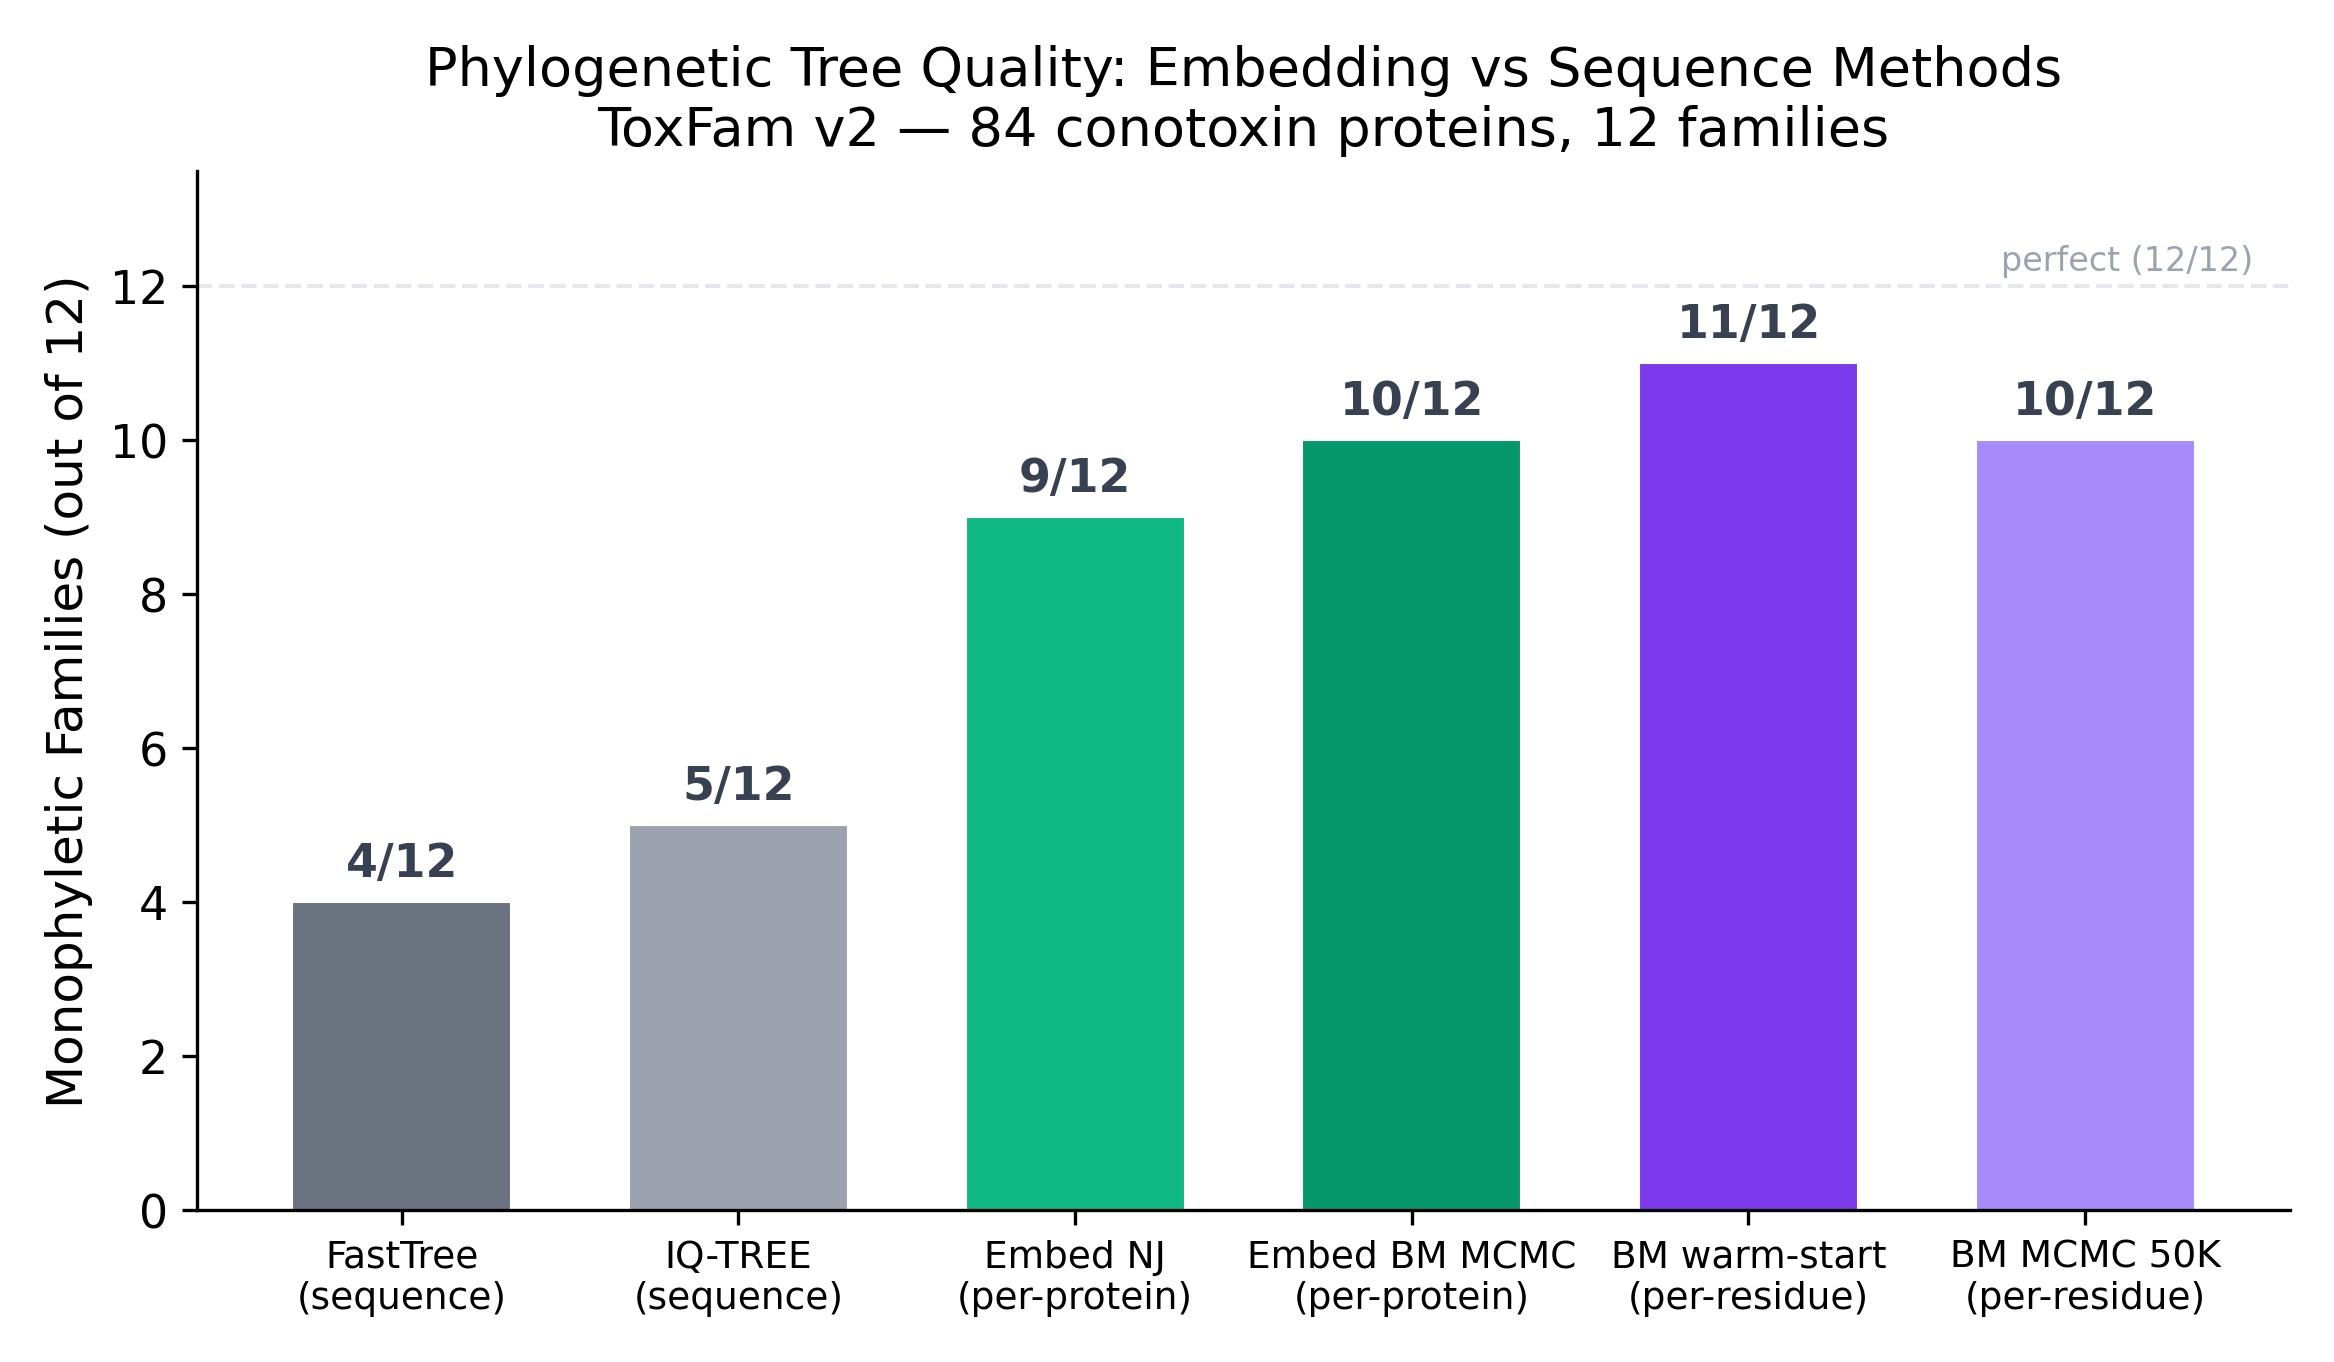
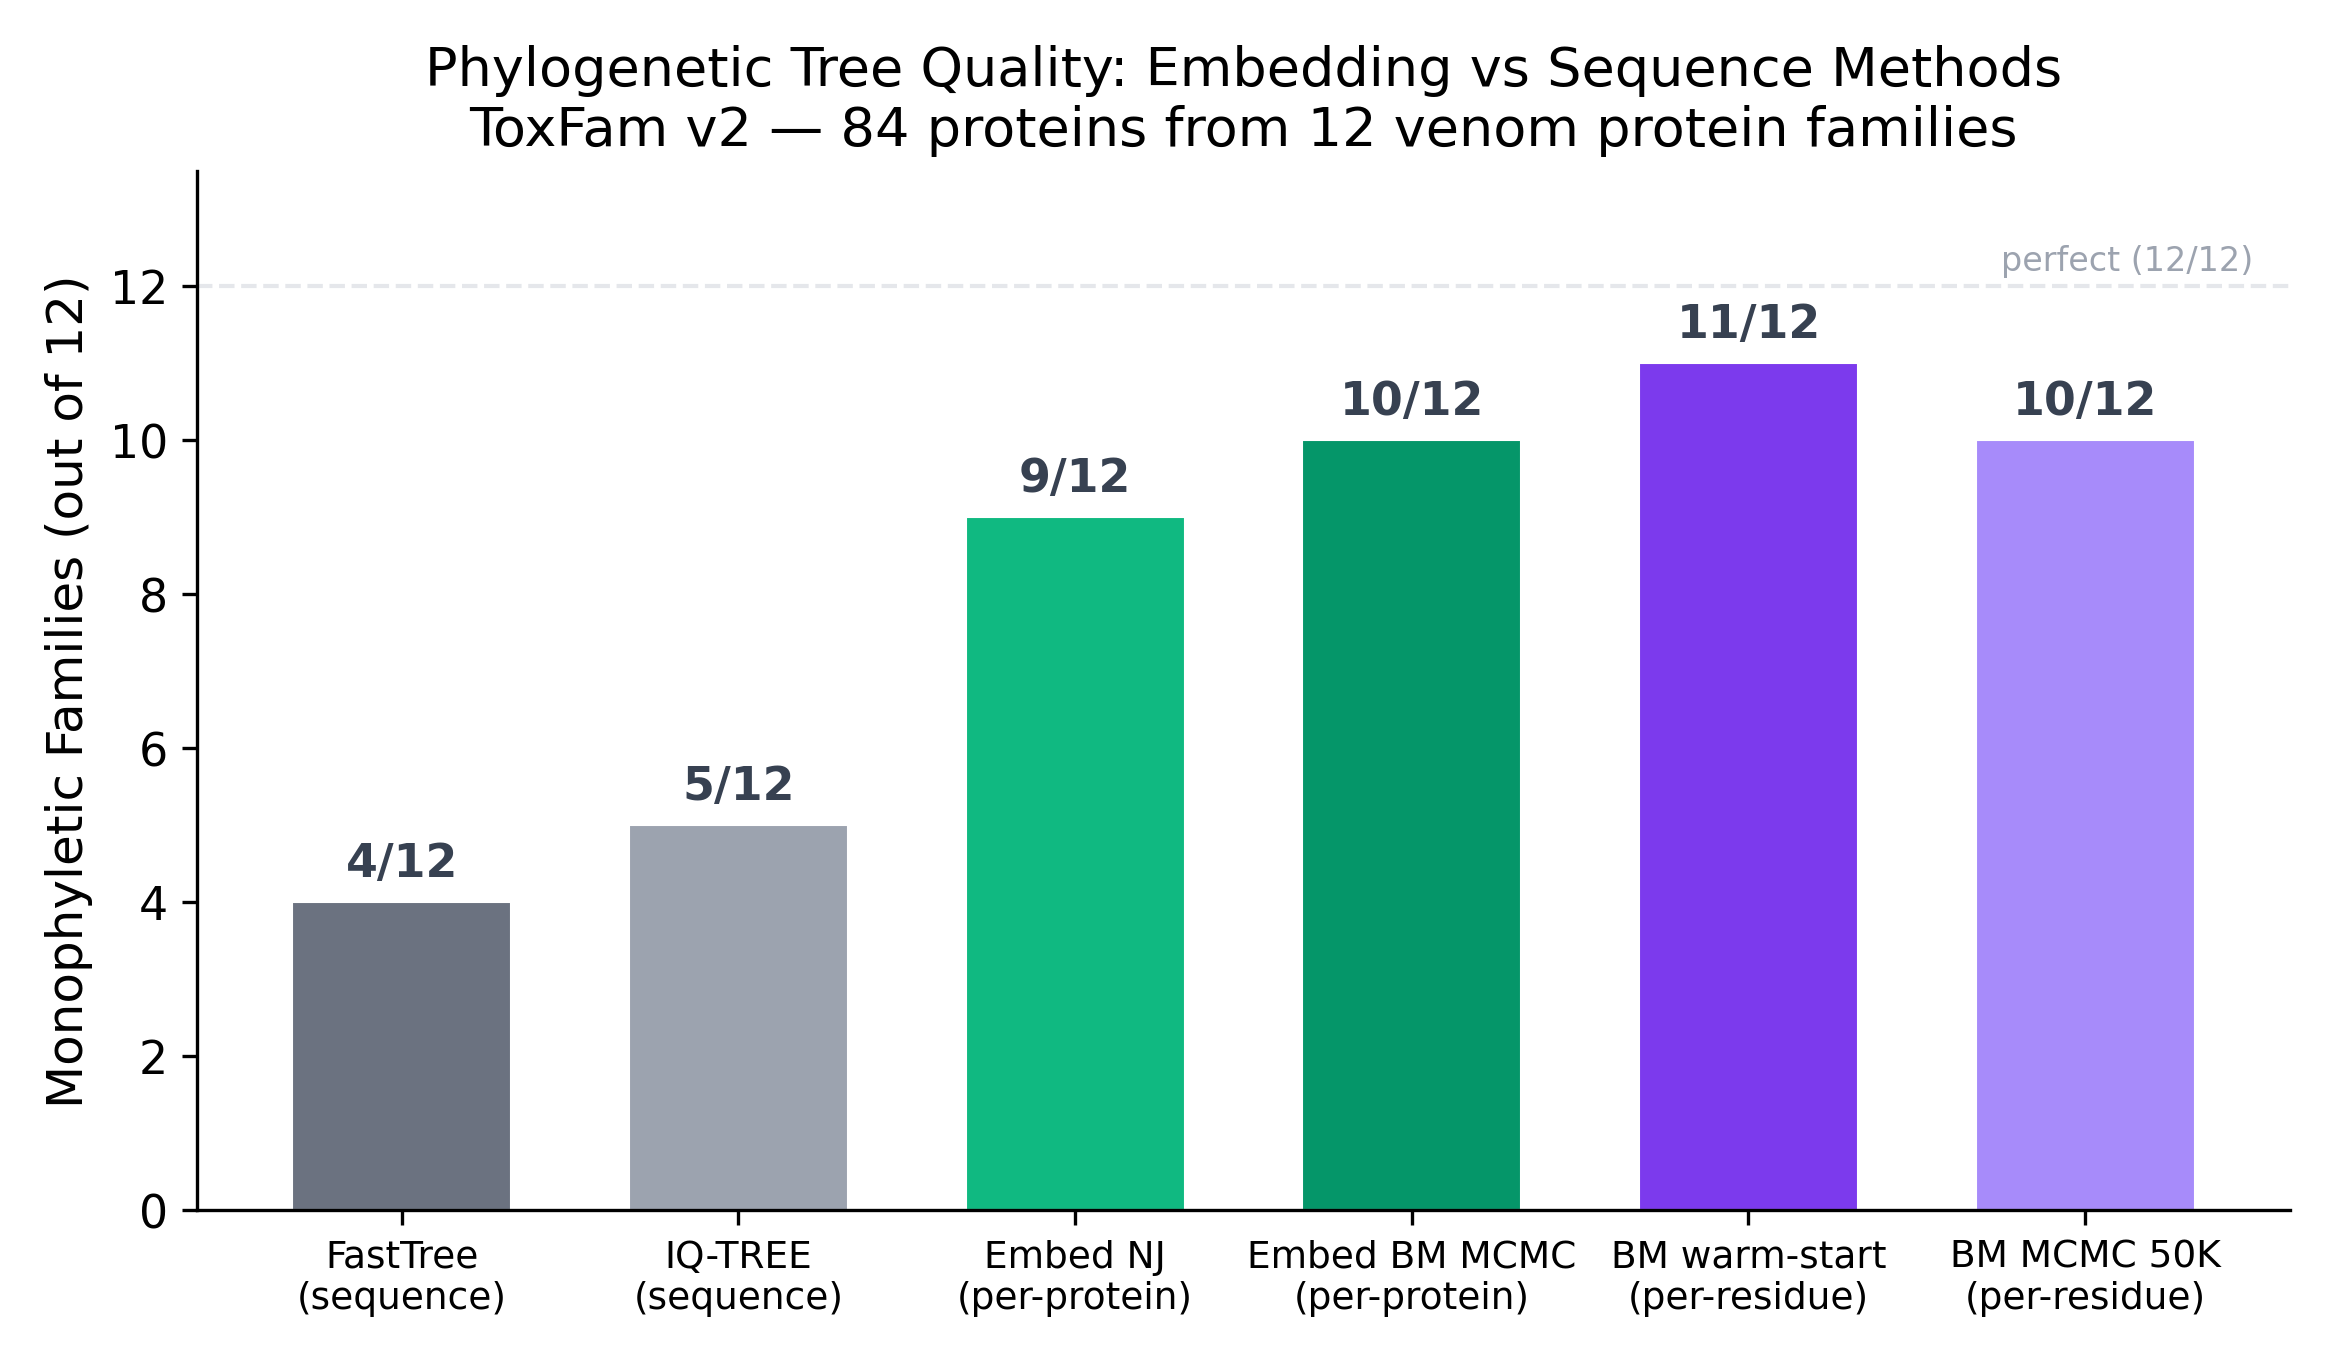
fix: thorough fact-check — correct 8 inaccuracies in README
Issues found and fixed by line-by-line verification against benchmark JSONs:
- "97% per-residue retention" → 96% (actual: 0.807/0.840 = 96.1%)
- "37 experiments" → 31 experiments (exps 05-10 don't exist)
- V2 full compression 13x → 14x (700/52 = 13.5, rounds to 14)
- V1 row labeled "ABTT3+RP512" with Ret@1=0.780 — dropped ABTT3
  (0.780 is without ABTT3; with ABTT3 it's 0.786)
- Key Results V1 row: same fix, use plain rp512+dct K4 (0.780/0.815)
- Phase 9 "40% less storage (26 vs 48 KB)" → 50% (26 vs 52 KB)
- Phylo subtitle: "conotoxin" → "venom protein families" (Snaclec,
  CRISP, Disintegrin, Actinoporin, Insulin, etc.)
- Journey heading: 37 → 31 experiments

Changed region(s): [[0.2159, 0.0617, 0.8638, 0.1233]]

diff --git a/experiments/make_publication_figures.py b/experiments/make_publication_figures.py
@@ -845,7 +845,7 @@ def fig_phylo_monophyly(data):
 
     ax.set_ylabel("Monophyletic Families (out of 12)")
     ax.set_title("Phylogenetic Tree Quality: Embedding vs Sequence Methods\n"
-                 "ToxFam v2 — 84 conotoxin proteins, 12 families")
+                 "ToxFam v2 — 84 proteins from 12 venom protein families")
     ax.set_xticks(x)
     ax.set_xticklabels(labels, fontsize=9)
     ax.set_ylim(0, 13.5)

diff --git a/README.md b/README.md
@@ -1,6 +1,6 @@
 # One Embedding: Universal Compression for PLM Protein Embeddings
 
-A universal codec that compresses any protein language model's per-residue output into a compact, fixed-schema representation -- the **One Embedding**. The recommended V2 codec (`balanced` mode) achieves **26 KB/protein** (27x compression) while preserving 99.7% retrieval quality and 97% per-residue task retention. Five selectable quality tiers from 10--52 KB. Works with any PLM (ProtT5, ESM2, ESM-C). Receiver needs only `h5py`, `numpy`, and a shared codebook.
+A universal codec that compresses any protein language model's per-residue output into a compact, fixed-schema representation -- the **One Embedding**. The recommended V2 codec (`balanced` mode) achieves **26 KB/protein** (27x compression) while preserving 99.7% retrieval quality and 96% per-residue task retention. Five selectable quality tiers from 10--52 KB. Works with any PLM (ProtT5, ESM2, ESM-C). Receiver needs only `h5py`, `numpy`, and a shared codebook.
 
 ## TL;DR
 
@@ -9,7 +9,7 @@ Protein language models produce large variable-length per-residue embedding matr
 - **Retrieval/clustering**: `protein_vec` -> (2048,) vector. Cosine similarity.
 - **Per-residue (SS3, disorder)**: decode PQ codes with shared codebook -> (L, 512) embeddings.
 
-232 compression methods benchmarked across 37 experiments to arrive at this design.
+232 compression methods benchmarked across 31 experiments (experiments 01--04, 11--37) to arrive at this design.
 
 ## Quick Start
 
@@ -94,7 +94,7 @@ All tiers share the same preprocessing and protein vector. The only difference i
 | Mode | Quantization | Payload Size | Compression | Ret@1 | SS3 Q3 | SS8 Q8 | Disorder rho | TM F1 |
 |------|-------------|:------------:|:-----------:|:-----:|:------:|:------:|:------------:|:-----:|
 | **`balanced`** | **PQ M=128** | **26 KB** | **27x** | **0.786** | **0.807** | **0.670** | **0.584** | **0.731** |
-| `full` | int4 scalar | 52 KB | 13x | 0.786 | 0.816 | 0.681 | 0.597 | 0.752 |
+| `full` | int4 scalar | 52 KB | 14x | 0.786 | 0.816 | 0.681 | 0.597 | 0.752 |
 | `compact` | PQ M=64 | 15 KB | 47x | 0.786 | 0.778 | 0.637 | 0.549 | 0.701 |
 | `binary` | 1-bit sign | 19 KB | 37x | 0.786 | 0.776 | 0.636 | 0.597 | 0.750 |
 | `micro` | PQ M=32 | 10 KB | 70x | 0.786 | 0.739 | 0.594 | 0.495 | 0.579 |
@@ -160,7 +160,7 @@ PLM embeddings encode enough evolutionary signal to reconstruct phylogenetic tre
 | **BM MCMC warm-start from NJ** | **per-residue 320Kd** | **11 / 12** |
 | BM MCMC (50K gen) | per-residue 320Kd | 10 / 12 |
 
-ToxFam v2 benchmark: 84 conotoxin proteins across 12 families. Embedding trees recover 2x more monophyletic families than sequence-based maximum likelihood methods. The best result (11/12) comes from a per-residue BM MCMC warm-started from a neighbor-joining tree. The Brownian motion model treats each of the 512 compressed dimensions as an independent continuous trait evolving along the tree -- justified by the decorrelation from ABTT3 + random projection preprocessing.
+ToxFam v2 benchmark: 84 proteins sampled from 12 diverse venom protein families (Snaclec, CRISP, Disintegrin, Actinoporin, Insulin, etc. — 7 proteins per family). Embedding trees recover 2x more monophyletic families than sequence-based maximum likelihood methods. The best result (11/12) comes from a per-residue BM MCMC warm-started from a neighbor-joining tree. The Brownian motion model treats each of the 512 compressed dimensions as an independent continuous trait evolving along the tree -- justified by the decorrelation from ABTT3 + random projection preprocessing.
 
 **Implementation:** ExaBayes-style MCMC with vectorized Felsenstein pruning O(N*D), partial likelihood caching, extended SPR proposals, MC3 heated chains, and convergence diagnostics (ASDSF, ESS, PSRF). Cross-validated against RevBayes (sigma-squared CIs overlap). 71 tests.
 
@@ -190,9 +190,9 @@ Raw PLM output (L, 1024)            -- any PLM, any protein
 |----------------|:------------:|:-----------:|:---------:|:-----------:|
 | Raw ProtT5 (L, 1024) fp32 | 700 KB | 1x | Baseline | Baseline |
 | **V2 `balanced` PQ M=128** | **26 KB** | **27x** | **0.786** | **(L, 512)** |
-| V2 `full` int4 | 52 KB | 13x | 0.786 | (L, 512) |
+| V2 `full` int4 | 52 KB | 14x | 0.786 | (L, 512) |
 | V2 `compact` PQ M=64 | 15 KB | 47x | 0.786 | (L, 512) |
-| V1 codec (ABTT3+RP512) fp16 | 179 KB | 4x | 0.780 | (L, 512) |
+| V1 codec (RP512) fp16 | 179 KB | 4x | 0.780 | (L, 512) |
 | protein_vec only (2048,) fp16 | 4 KB | 175x | 0.786 | No |
 | mean pool only (1024,) fp32 | 4 KB | 175x | 0.734 | No |
 
@@ -221,7 +221,7 @@ CNN probes (disorder, ss3) are trained on 512d compressed embeddings and ship as
 | Codec | Ret@1 | SS3 Q3 | Dim | Per-Residue? |
 |-------|:-----:|:------:|:---:|:------------:|
 | **V2 balanced (PQ M=128)** | **0.786** | **0.807** | 2048+512 | Yes (L, 512) |
-| V1 ABTT3+rp512+dct K4 | 0.786 | 0.811 | 2048 | Yes (L, 512) fp16 |
+| V1 rp512+dct K4 | 0.780 | 0.815 | 2048 | Yes (L, 512) fp16 |
 | [mean\|max] euc | 0.786 | -- | 2048 | No |
 | mean pool (ground zero) | 0.734 | 0.840 | 1024 | Yes (raw) |
 | *Trained CC d256* | *0.795* | *0.834* | *256* | *Yes (256d)* |
@@ -324,7 +324,7 @@ V1 stores `(L, 512)` float16 per-residue embeddings + `(2048,)` protein vector. 
 
 Use V1 when you need: zero setup, no codebook distribution, simplest possible receiver.
 
-## The Journey: 232 Methods in 37 Experiments
+## The Journey: 232 Methods in 31 Experiments
 
 ### Phase 1-4: Trained Compression (Experiments 1-10)
 
@@ -351,7 +351,7 @@ ABTT3 (remove top-3 PCs) discovered as a free retrieval boost (+0.006 Ret@1). in
 Re-tested all compression on ABTT3+RP512 (decorrelated, isotropic). Results dramatically better:
 
 - **Binary (1-bit) beats int4 for retrieval** (0.787 vs 0.784) -- RaBitQ effect
-- **PQ M=128 matches V1 quality at 40% less storage** (26 vs 48 KB payload)
+- **PQ M=128 matches V1 quality at 50% less storage** (26 vs 52 KB payload)
 - **Pure VQ fails in 512d** -- even K=16384 caps at 0.621 Ret@1
 - **RVQ fails in 512d** -- residual norms barely decrease between levels
 - **OPQ doesn't help** -- RP already decorrelates
